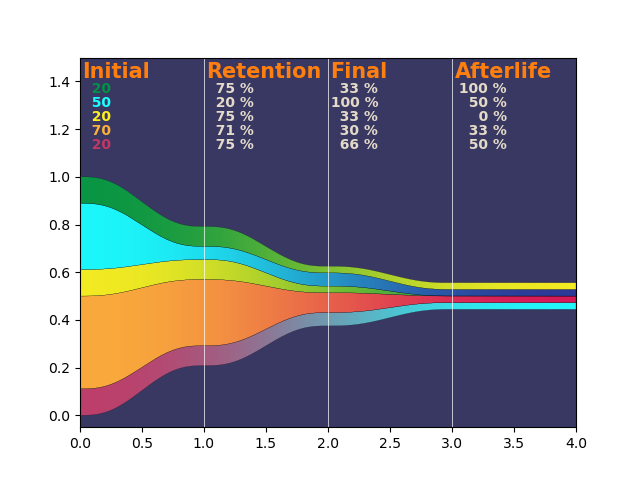
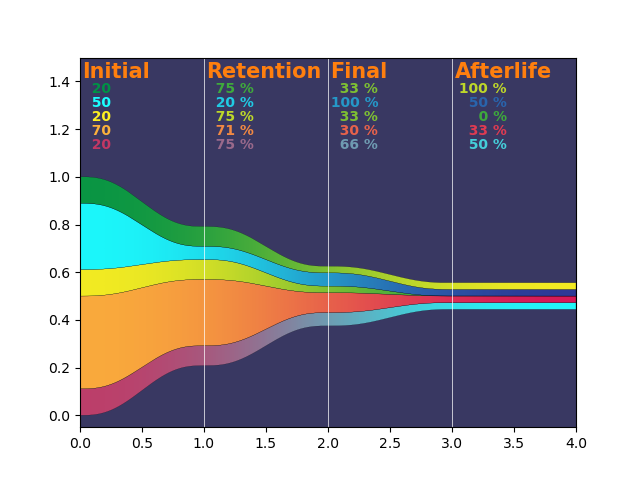
number coloring strategy added

Changed region(s): [[0.7188, 0.1562, 0.8125, 0.3125], [0.5, 0.1562, 0.5938, 0.3125], [0.3438, 0.1562, 0.4062, 0.3125]]

diff --git a/FunnelGraph/src/text/text.py b/FunnelGraph/src/text/text.py
@@ -2,94 +2,105 @@ import numpy as np
 import matplotlib.pyplot as plt
 from matplotlib.patches import Rectangle
 
+from abc import ABC, abstractmethod
+from typing import List
+
 from src.text.config import text_stage_kwargs, text_nums_kwargs
 from src.pic_config.config import pic_global
 
-def label_stage(ax: plt.Axes, stage:int, label:str, number_column:np.ndarray, cmap_list:list):
-    """ Function puts labels and numbers to the stage,
-        example of early stage of label_stage:
+class ColumnPrintStrategy(ABC):
+    @abstractmethod
+    def prepare_string_list(self, list: List[str]) -> List[str]:
+        pass
 
+
+class JustNumbers(ColumnPrintStrategy):
+    def prepare_string_list(self, list: List[str]) -> List[str]:
+        for i in range(len(list)):
+            list[i] = list[i].rjust(4)
+        return list
+
+
+class WithPercent(ColumnPrintStrategy):
+    def prepare_string_list(self, list: List[str]) -> List[str]:
+        for i in range(len(list)):
+            list[i] = (list[i] + " %").rjust(6)
+        return list
+
+
+def label_stage(
+    ax: plt.Axes,
+    stage: int,
+    label: str,
+    column_print_strategy: ColumnPrintStrategy,
+    number_column: np.ndarray,
+    apply_colorQ: bool,
+    cmap_list: list,
+    cmap_arg: float,
+):
+    """Function puts labels and numbers to the stage,
+    cell example using label_stage:
+
+        import numpy as np
         import matplotlib.pyplot as plt
-        from matplotlib.patches import Rectangle
 
-        # plt.rcParams["font.size"] = 20
+        from src.funel_graph import FunelGraph
+        from src.text.text import JustNumbers, WithPercent
+        from src.text.text import label_stage
+
+        fg = FunelGraph()
+        fg.prepare()
+        fg.set_colors()
+
+
         fig, ax = plt.subplots()
 
         ax.set_facecolor('#393862')
         plt.xlim(0, 2)
         plt.ylim(0, 1.5)
-
-        ax.set_aspect('equal')
-
-        title_dict = dict(
-            size=20,
-            color="tab:orange",
-            va='top', ha='left',
-            family='sans-serif',
-            weight="bold", 
-            )
-        numbs_dict = dict(
-            size=20,
-            color='#e3dac9', 
-            weight='bold', 
-            family='sans-serif'
-            )
-        x0, y0, x1, y1 = 0.0, 1, 1, 1.5
-        width, height = x1 - x0, y1 - y0
-        rect = Rectangle((x0, y0), width, height, fc="none", ec='y')#, ec="none")
-        ax.add_patch(rect)
-
-        gap = 0.02
-        text = ax.text(x0+gap, y1-gap, "Matplotlib", **title_dict)
-
-        text = ax.annotate(
-            "34 %", xycoords=text, xy=(0.05, -0.5), va="top", ha='left', **numbs_dict)
-        text = ax.annotate(
-            "27 %", xycoords=text, xy=(1, 0), va="top", ha='right', **numbs_dict)
-        text = ax.annotate(
-            "11 %", xycoords=text, xy=(1, 0), va="top",ha='right', **numbs_dict)
+        label_stage(
+            ax=ax,
+            stage=0,
+            label='Matplotlib',
+            column_print_strategy=JustNumbers(),
+            number_column=np.array([34,27,11,12]),
+            apply_colorQ= True,
+            cmap_list=fg.data_dict['colors'],
+            cmap_arg=0)
         plt.show()
     """
 
     # box for text
-    x0, y0, = stage * pic_global['stage_width'], pic_global['funnel_height'],
-    x1, y1 = (stage+1) * pic_global['stage_width'], pic_global['picture_height']
+
+    x0, y0 = stage * pic_global["stage_width"], pic_global["funnel_height"]
+    x1, y1 = (stage + 1) * pic_global["stage_width"], pic_global["picture_height"]
     width, height = x1 - x0, y1 - y0
     box = Rectangle((x0, y0), width, height, fc="none", ec="none")
     ax.add_patch(box)
-    
+
     # drawing top label
-    label_gaps = {'box_gap' : 0.02, 
-                  'first_no_XY' : (0, 0)
-                  }
-    gap = label_gaps['box_gap']
-    text = ax.text(x0+gap, y1-gap, label, **text_stage_kwargs)
+    label_gaps = {"box_gap": 0.02, "first_no_XY": (0, 0)}
+    gap = label_gaps["box_gap"]
+    text = ax.text(x0 + gap, y1 - gap, label, **text_stage_kwargs)
 
-    # first stage there are no % sign
-    if stage != 0:
-        # rest of the stages have bone color
-        text_nums_kwargs['color'] = '#e3dac9'
-        for i, num in enumerate(number_column):
-            if i == 0:
-                xy = label_gaps['first_no_XY']
-                text = ax.annotate(str(num).rjust(4)+" %", xycoords=text, xy=xy, 
-                                va="top", ha='left', **text_nums_kwargs)
-            else:
-                text = ax.annotate(str(num).rjust(4)+" %", xycoords=text, xy=(1, 0), 
-                                va="top", ha='right', **text_nums_kwargs)
-    # rest of the stages have % of the previous
-    elif stage == 0:
-        # stage 0 overwrite colors
-        colors_at_zero_reversed = list(cmap_list.__reversed__())
+    # the column of numbers
+    string_list = np.char.mod("%d", number_column).tolist()
+    strings_to_annotate = column_print_strategy.prepare_string_list(string_list)
 
-        for i, num in enumerate(number_column):
-            if i == 0:
-                xy = label_gaps['first_no_XY']
-                text_nums_kwargs['color'] = colors_at_zero_reversed[i](0)
-                text = ax.annotate(str(num).rjust(4), xycoords=text, xy=xy, 
-                                va="top", ha='left', **text_nums_kwargs)
-            else:
-                text_nums_kwargs['color'] = colors_at_zero_reversed[i](0)
-                text = ax.annotate(str(num).rjust(4), xycoords=text, xy=(1, 0), 
-                                va="top", ha='right', **text_nums_kwargs)
+    colors_at_stage_reversed = list(cmap_list.__reversed__())
+    default_num_color = text_nums_kwargs["color"]
+
+    for i, num_str in enumerate(strings_to_annotate):
+        if apply_colorQ == True:
+            text_nums_kwargs["color"] = colors_at_stage_reversed[i](cmap_arg)
+        text = ax.annotate(
+            num_str,
+            xycoords=text,
+            xy=label_gaps["first_no_XY"] if i == 0 else (1, 0),
+            va="top",
+            ha="left" if i == 0 else "right",
+            **text_nums_kwargs
+        )
+    text_nums_kwargs["color"] = default_num_color
+
     return text

diff --git a/FunnelGraph/src/funel_graph.py b/FunnelGraph/src/funel_graph.py
@@ -9,6 +9,7 @@ from matplotlib.patches import PathPatch
 
 from src.interpolating_function import inter_poly
 from src.text.text import label_stage
+from src.text.text import JustNumbers, WithPercent
 from src.gradient import gradient_image, cmaps_dict
 
 class FunelGraph():
@@ -201,11 +202,24 @@ class FunelGraph():
         #             **self.number_text_kwargs)
 
         # the texts:
+        # for stage, name in enumerate(self.data_dict['labels'][:-1]):
+        #     if stage == 0:
+        #         label_stage(ax, stage, name, self.first_column, self.data_dict['colors'] )
+        #     elif stage != 0:
+        #         label_stage(ax, stage, name, self.pcent_of_previous_stage[:,stage-1], self.data_dict['colors'])
+
+        # the texts:
         for stage, name in enumerate(self.data_dict['labels'][:-1]):
-            if stage == 0:
-                label_stage(ax, stage, name, self.first_column, self.data_dict['colors'] )
-            elif stage != 0:
-                label_stage(ax, stage, name, self.pcent_of_previous_stage[:,stage-1], self.data_dict['colors'])
+            cmap_arg = stage/len(self.data_dict['labels'][:-1])
+            label_stage(
+                ax=ax,
+                stage=stage,
+                label= name,
+                column_print_strategy=JustNumbers() if stage==0 else WithPercent(),
+                number_column=self.first_column if stage==0 else self.pcent_of_previous_stage[:,stage-1],
+                apply_colorQ= True,
+                cmap_list=self.data_dict['colors'],
+                cmap_arg=cmap_arg)
 
         ax.set_facecolor(background_color)
         # ax.get_xaxis().set_visible(False)
